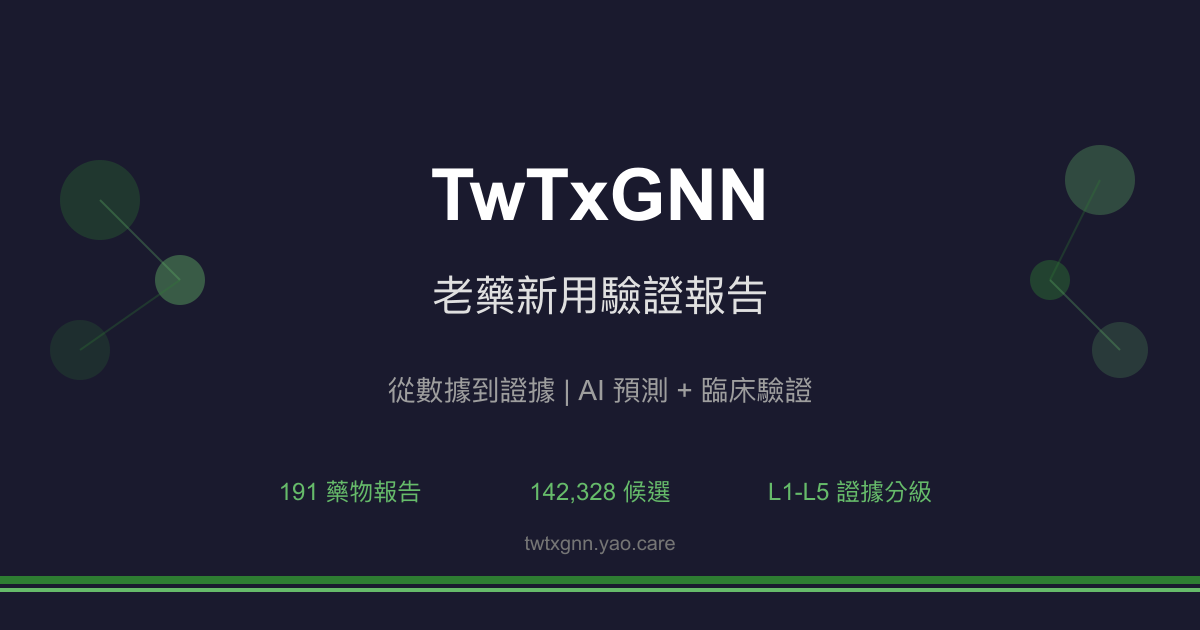
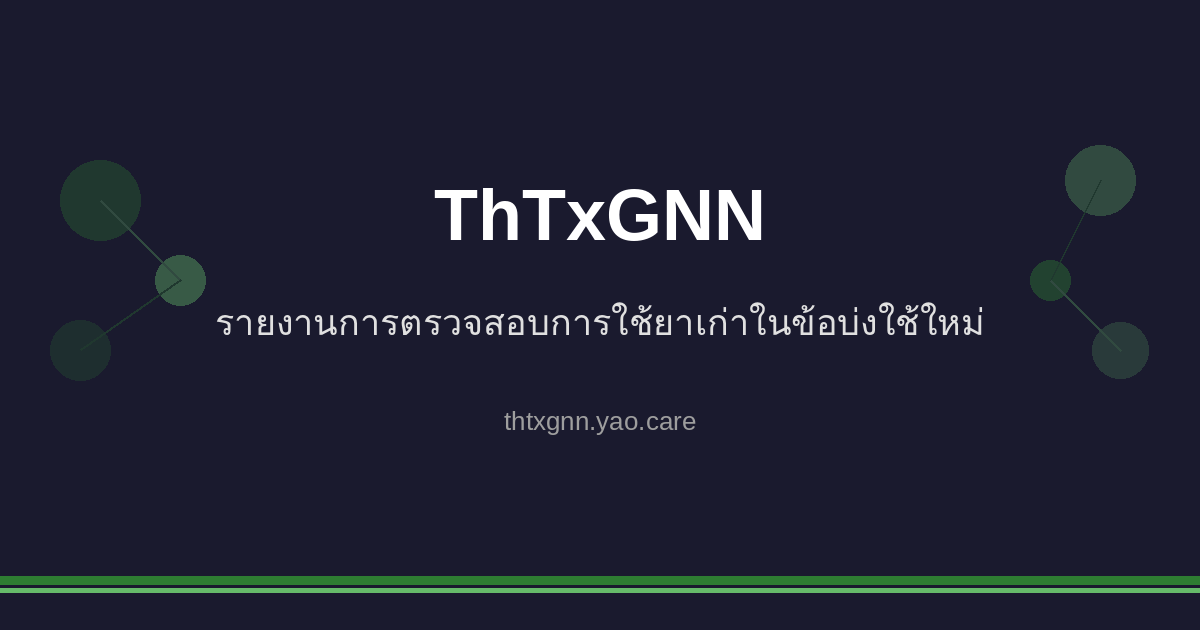
fix: 移除照抄 Tw 的 og 圖與過期數字，健保字樣改成 Thai FDA 登記藥品
- og-default.png／svg：原 PNG 是 TwTxGNN 原圖（TwTxGNN、191 藥物報告、142,328 候選、twtxgnn.yao.care）。
  改由母 repo .claude/gen_og_image.py 產生本站圖：只放站名、網域、泰文副標（取自 _config.yml title），不放數字。
  scripts/drug_count_spots.json 拿掉 og-default.svg 那條（svg 不再有藥物數）。
- docs/drugs.md：寫死的 2,573,191 個潛在新適應症 → {{ site.data.site_stats.indications }}（目前 699，
  ＝公開藥物頁 indication_count 合計，與首頁同口徑）。
- head_custom.html：JSON-LD description 的「ยาในระบบประกันสุขภาพไทย」（泰國健保藥品）改成
  「ยาที่ขึ้นทะเบียนกับ อย. ประเทศไทย」（Thai FDA 登記藥品，與 config/fields.yaml、drugs.md 一致），共 3 處同一句。
- README：證據等級分布改成 drug_stats.json 現況（L2 10／L3 4／L4 10／L5 101，另列 N/A 20）；
  FHIR 125/1,130 → docs/fhir 實際檔案 158 MK／769 CUD；DDI 302,516（DDInter 網站總數，照抄 Tw）→
  本站 Release data-20261031-013722 的 DDInter 檔去重後 160,235 組藥物配對；
  DDSI 8,359、DFI 857、DHI 35 本站沒有資料檔，刪除。

Claude-Session: https://claude.ai/code/session_013aGXmRzC9hmsD5XtZ9FusM

diff --git a/docs/_includes/head_custom.html b/docs/_includes/head_custom.html
@@ -195,7 +195,7 @@ window.TXGNN_ANALYTICS = {
       "@id": "https://thtxgnn.yao.care/#website",
       "name": "ThTxGNN รายงานการยืนยันการนำยาเก่ามาใช้ใหม่",
       "url": "https://thtxgnn.yao.care/",
-      "description": "ใช้ AI ทำนายข้อบ่งใช้ใหม่ที่อาจเป็นไปได้ของยาในระบบประกันสุขภาพไทย พร้อมรายงานการยืนยันหลักฐานทางคลินิก",
+      "description": "ใช้ AI ทำนายข้อบ่งใช้ใหม่ที่อาจเป็นไปได้ของยาที่ขึ้นทะเบียนกับ อย. ประเทศไทย พร้อมรายงานการยืนยันหลักฐานทางคลินิก",
       "isPartOf": {
         "@id": "https://thtxgnn.yao.care/#software"
       },
@@ -207,7 +207,7 @@ window.TXGNN_ANALYTICS = {
       "@type": "WebPage",
       "@id": "https://thtxgnn.yao.care/#article",
       "headline": "การนำยาเก่ามาใช้ใหม่ จากข้อมูลสู่หลักฐาน",
-      "description": "ใช้ AI ทำนายข้อบ่งใช้ใหม่ที่อาจเป็นไปได้ของยาในระบบประกันสุขภาพไทย พร้อมรายงานการยืนยันหลักฐานทางคลินิกและการทดลองทางคลินิกจากยา {{ site.data.drug_stats.total_drugs }} ชนิด",
+      "description": "ใช้ AI ทำนายข้อบ่งใช้ใหม่ที่อาจเป็นไปได้ของยาที่ขึ้นทะเบียนกับ อย. ประเทศไทย พร้อมรายงานการยืนยันหลักฐานทางคลินิกและการทดลองทางคลินิกจากยา {{ site.data.drug_stats.total_drugs }} ชนิด",
       "author": {
         "@id": "https://www.yao.care/#organization"
       },
@@ -382,7 +382,7 @@ window.TXGNN_ANALYTICS = {
       "@type": "ItemList",
       "@id": "{{ page.url | absolute_url }}#itemlist",
       "name": "รายงานการยืนยันยา ThTxGNN",
-      "description": "รายงานการยืนยันการนำยาเก่ามาใช้ใหม่ของยาในระบบประกันสุขภาพไทย",
+      "description": "รายงานการยืนยันการนำยาเก่ามาใช้ใหม่ของยาที่ขึ้นทะเบียนกับ อย. ประเทศไทย",
       "numberOfItems": {{ site.data.drug_stats.total_drugs }},
       "itemListOrder": "https://schema.org/ItemListOrderAscending"
     },

diff --git a/README.md b/README.md
@@ -23,21 +23,19 @@ Drug repurposing predictions for Thailand Thai FDA-approved drugs using the TxGN
 | **Total Predictions** | 222,094 |
 | **Unique Drugs** | 152 |
 | **Unique Indications** | 12,298 |
-| **DDI Data** | 302,516 |
-| **DFI Data** | 857 |
-| **DHI Data** | 35 |
-| **DDSI Data** | 8,359 |
-| **FHIR Resources** | 125 MK / 1,130 CUD |
+| **DDI Data** | 160,235 (DDInter 2.0 unique drug pairs) |
+| **FHIR Resources** | 158 MK / 769 CUD |
 
 ### Evidence Level Distribution
 
 | Evidence Level | Report Count | Description |
 |---------|-------|------|
 | **L1** | 0 | Multiple Phase 3 RCTs |
-| **L2** | 0 | Single RCT or multiple Phase 2 |
-| **L3** | 0 | Observational studies |
-| **L4** | 0 | Preclinical / mechanistic studies |
-| **L5** | 151 | Computational prediction only |
+| **L2** | 10 | Single RCT or multiple Phase 2 |
+| **L3** | 4 | Observational studies |
+| **L4** | 10 | Preclinical / mechanistic studies |
+| **L5** | 101 | Computational prediction only |
+| **N/A** | 20 | Known uses only (no new prediction) |
 
 ### By Source
 

diff --git a/docs/drugs.md b/docs/drugs.md
@@ -37,7 +37,7 @@ permalink: /drugs/
 
 ## ภาพรวม
 
-ThTxGNN วิเคราะห์ยา {{ site.data.drug_stats.total_drugs }} รายการจาก Thai FDA และระบุข้อบ่งใช้ใหม่ที่มีศักยภาพ 2,573,191 รายการ
+ThTxGNN วิเคราะห์ยา {{ site.data.drug_stats.total_drugs }} รายการจาก Thai FDA และระบุข้อบ่งใช้ใหม่ที่มีศักยภาพ {{ site.data.site_stats.indications }} รายการ
 
 ## สรุปตามระดับหลักฐาน
 
